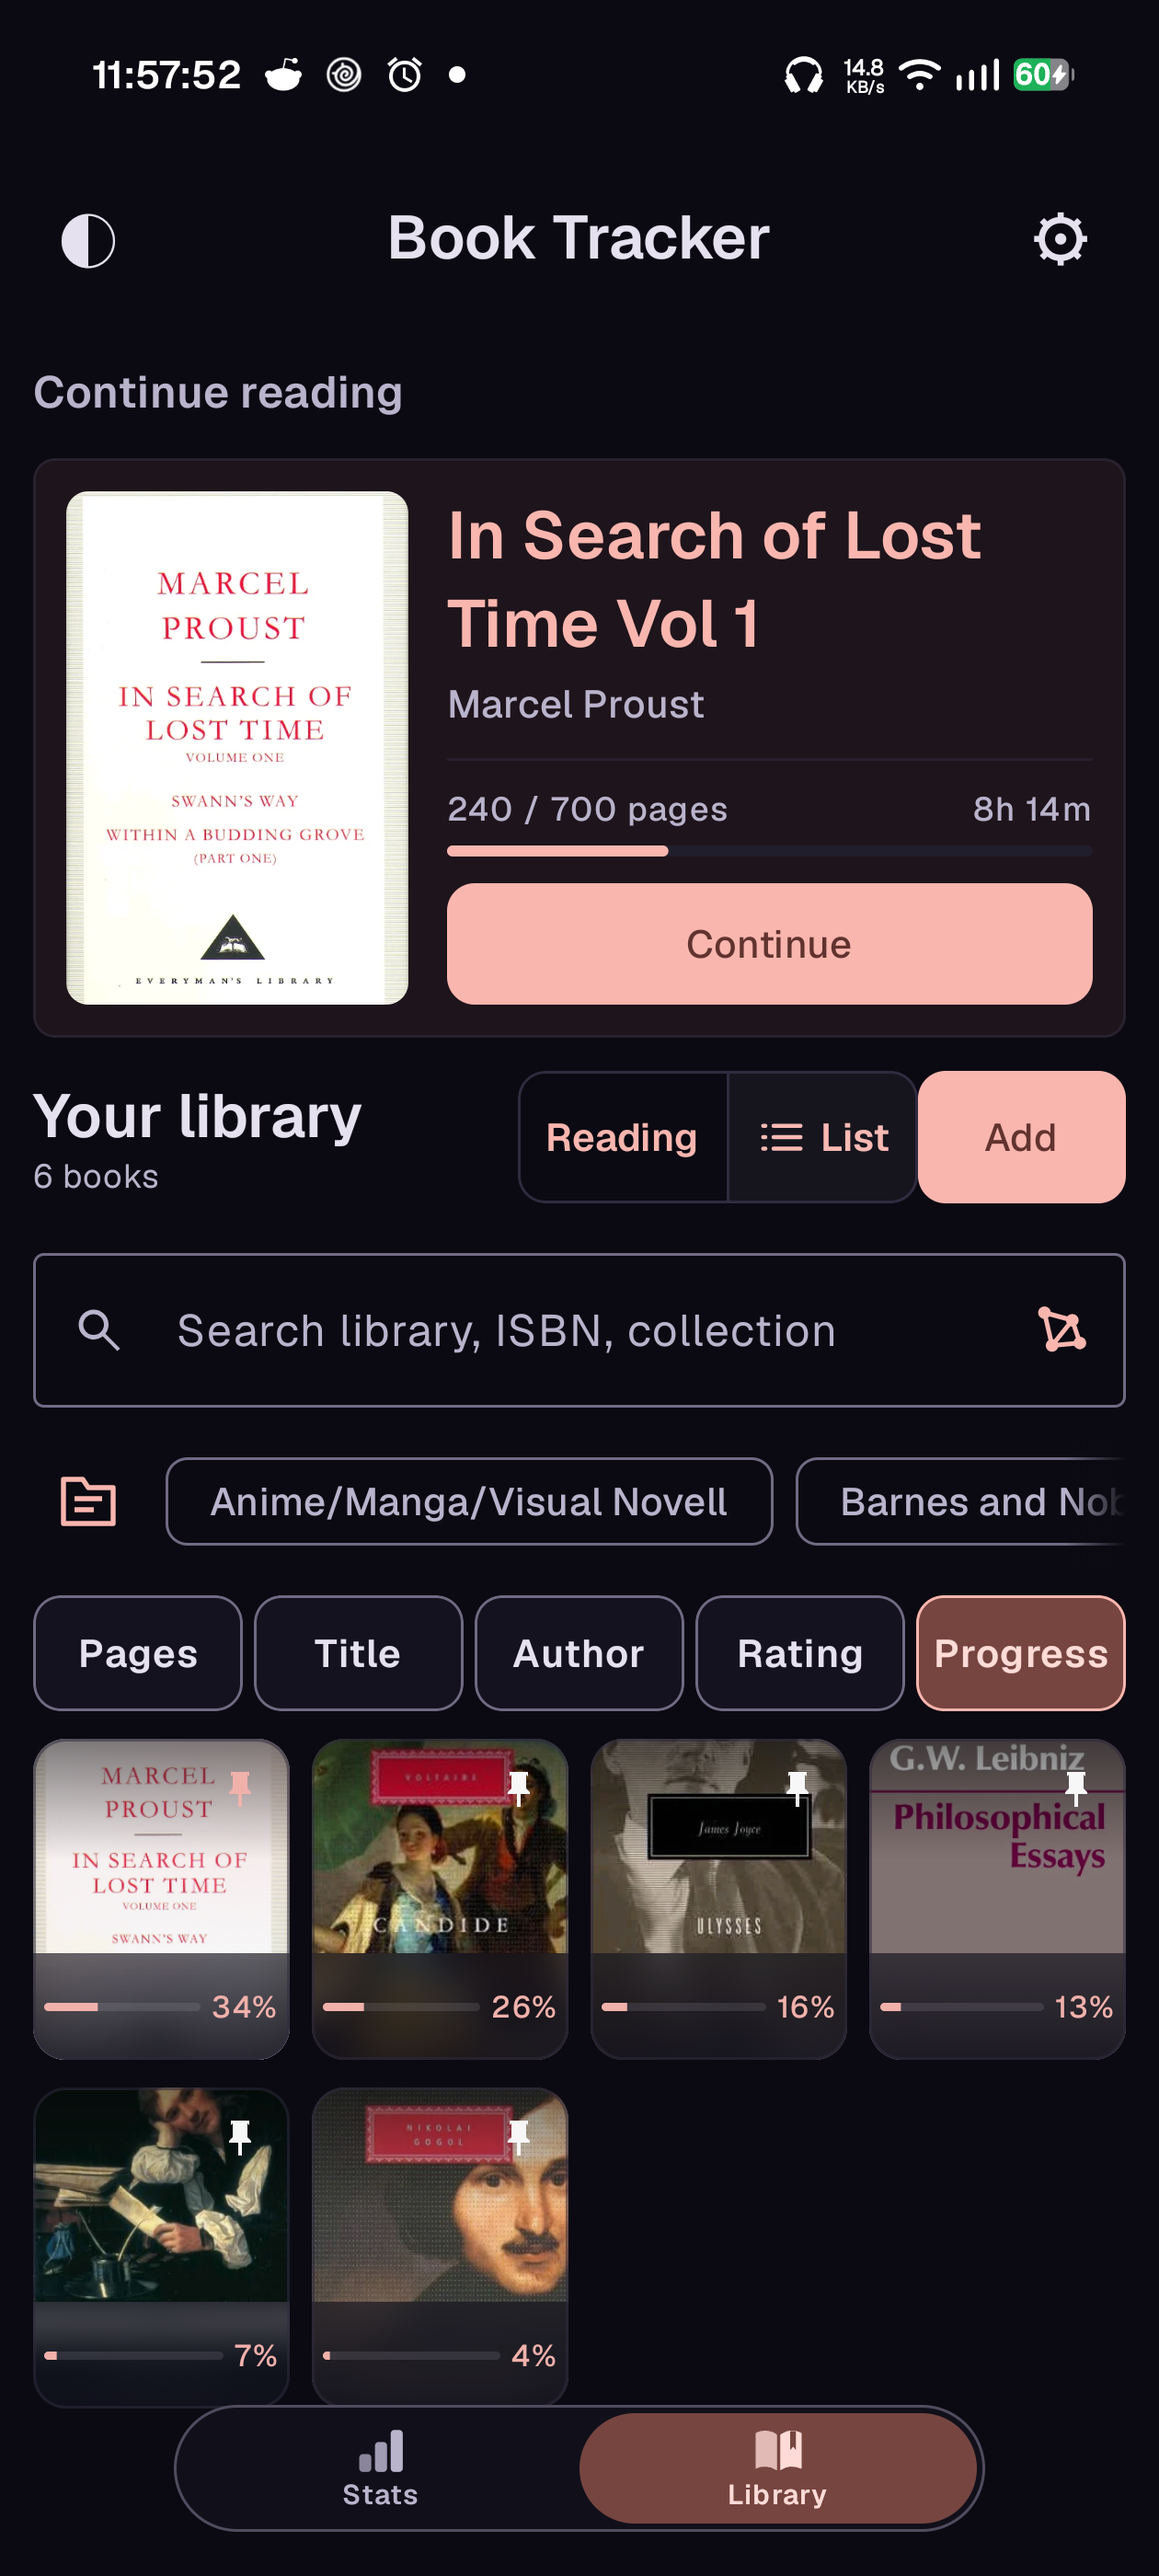
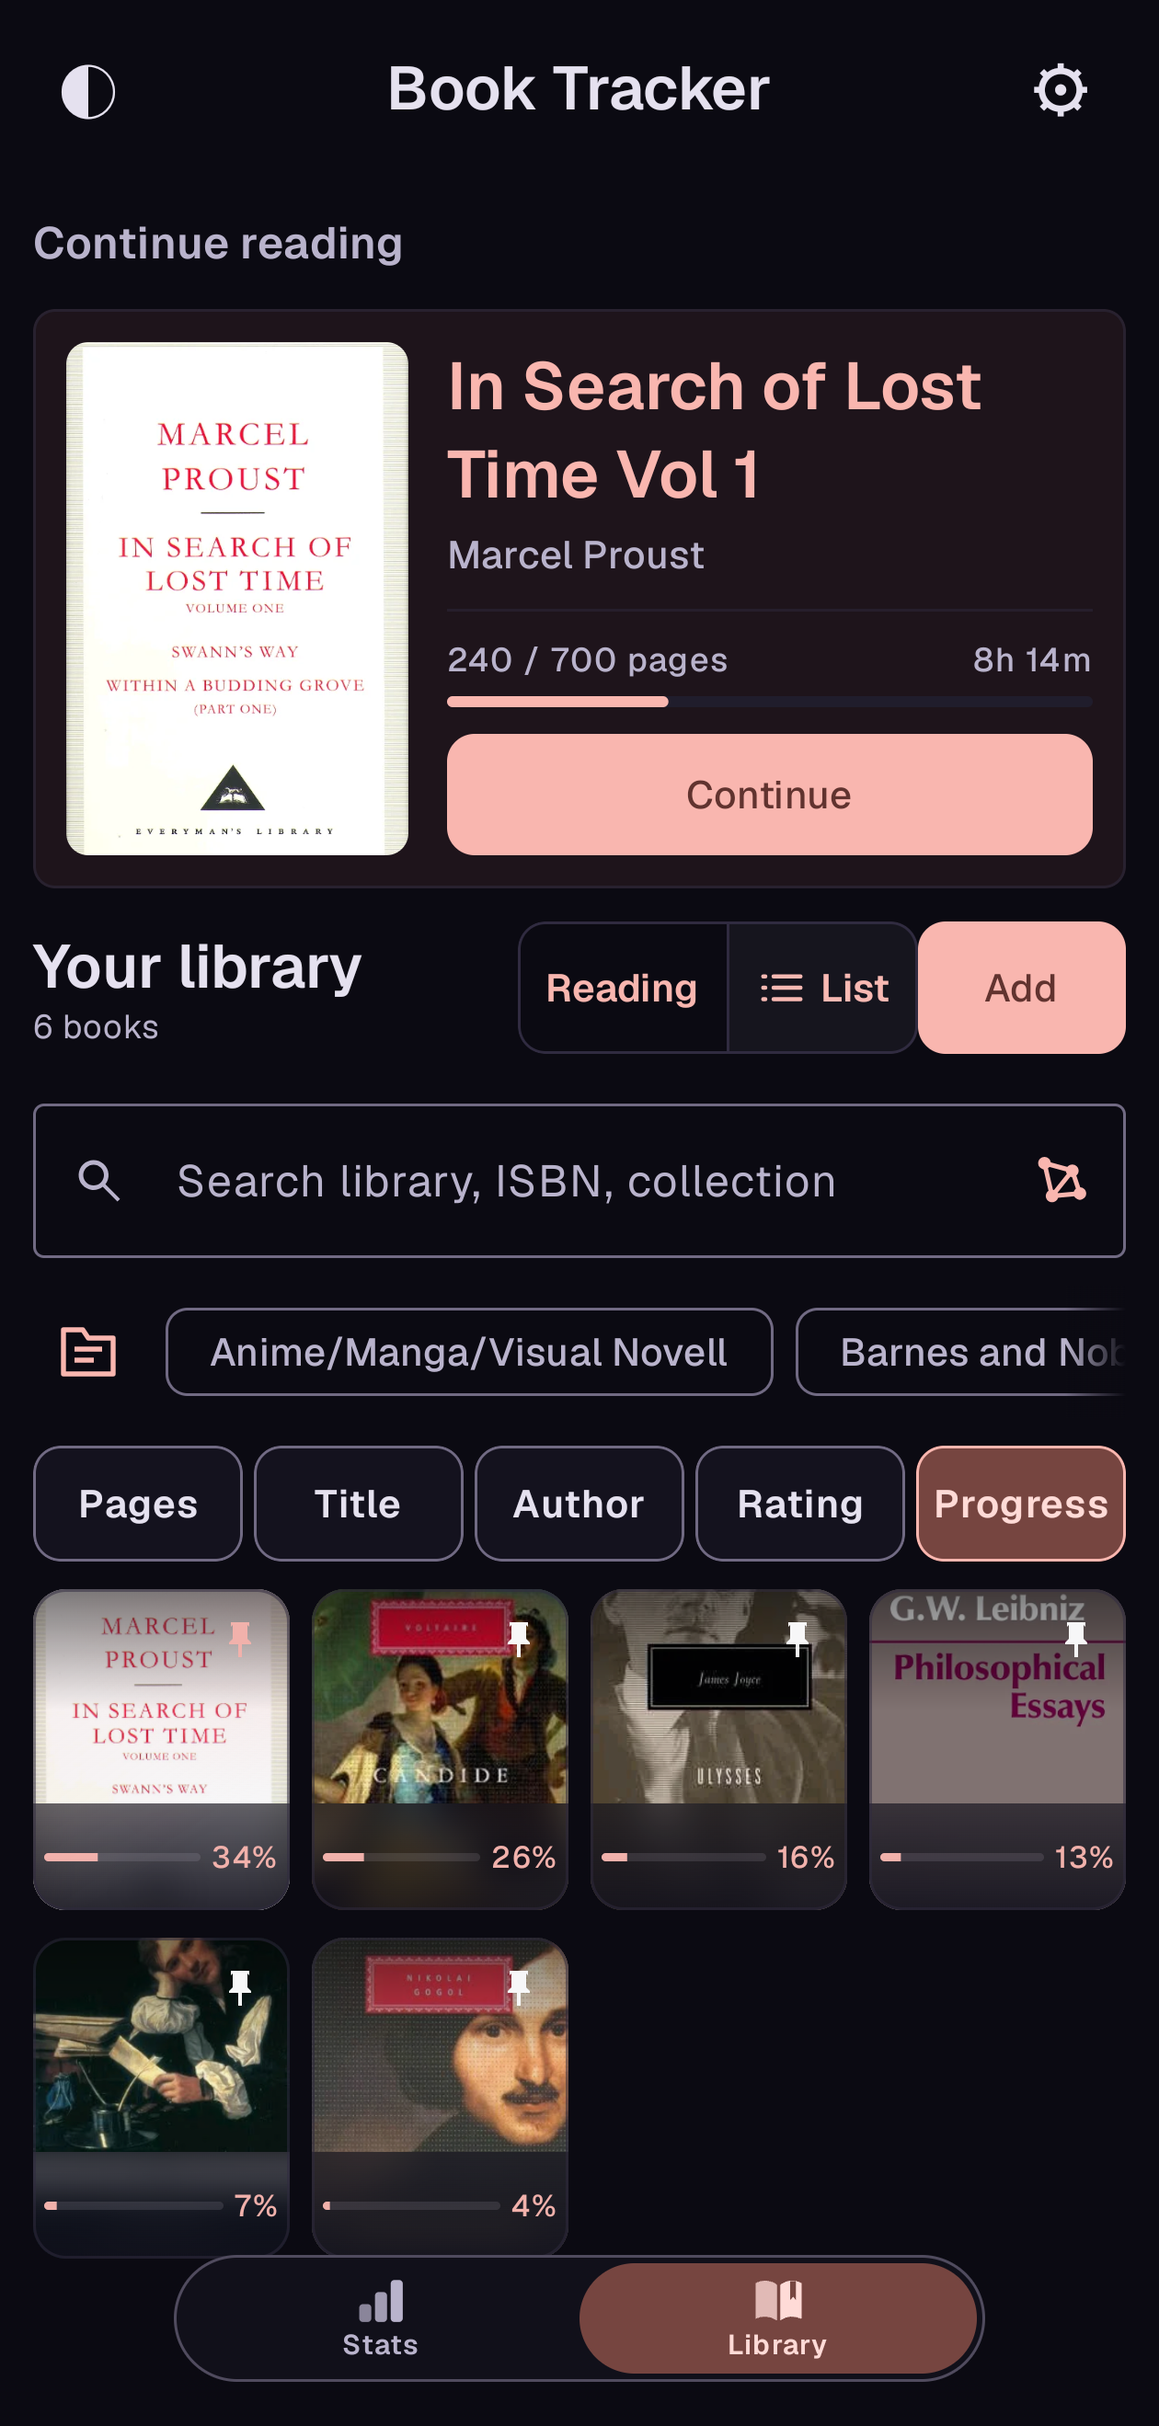
Crop README screenshots and show pages and reading time trends

diff --git a/README.md b/README.md
@@ -21,8 +21,8 @@ Book Tracker 1.2 on a real device, with the maintainer's own library and reading
 <tr><td><img src="docs/screenshots/book-details.png" width="320" alt="Book details with progress, reading goal, pace and session history"></td><td><img src="docs/screenshots/reading-map.png" width="320" alt="Reading map connecting 147 books across 17 collection families"></td></tr>
 <tr><th>Reading goals</th><th>Reading progress</th></tr>
 <tr><td><img src="docs/screenshots/reading-goals.png" width="320" alt="Daily, monthly and yearly reading goals"></td><td><img src="docs/screenshots/reading-progress.png" width="320" alt="Monthly reading progress and completed compendium parts"></td></tr>
-<tr><th>Author trends</th><th>Collection trends</th></tr>
-<tr><td><img src="docs/screenshots/trends-authors.png" width="320" alt="Author trends"></td><td><img src="docs/screenshots/trends-collections.png" width="320" alt="Collection trends"></td></tr>
+<tr><th>Author trends · Pages · View all</th><th>Collection trends · Reading time</th></tr>
+<tr><td><img src="docs/screenshots/trends-authors.png" width="320" alt="All 114 author trend lines measured in pages"></td><td><img src="docs/screenshots/trends-collections.png" width="320" alt="Collection trends measured in reading time"></td></tr>
 <tr><th>Settings</th><th>About</th></tr>
 <tr><td><img src="docs/screenshots/settings-1.2.png" width="320" alt="Book Tracker 1.2 Settings categories"></td><td><img src="docs/screenshots/about-1.2.png" width="320" alt="Book Tracker 1.2 version and build"></td></tr>
 </table>
